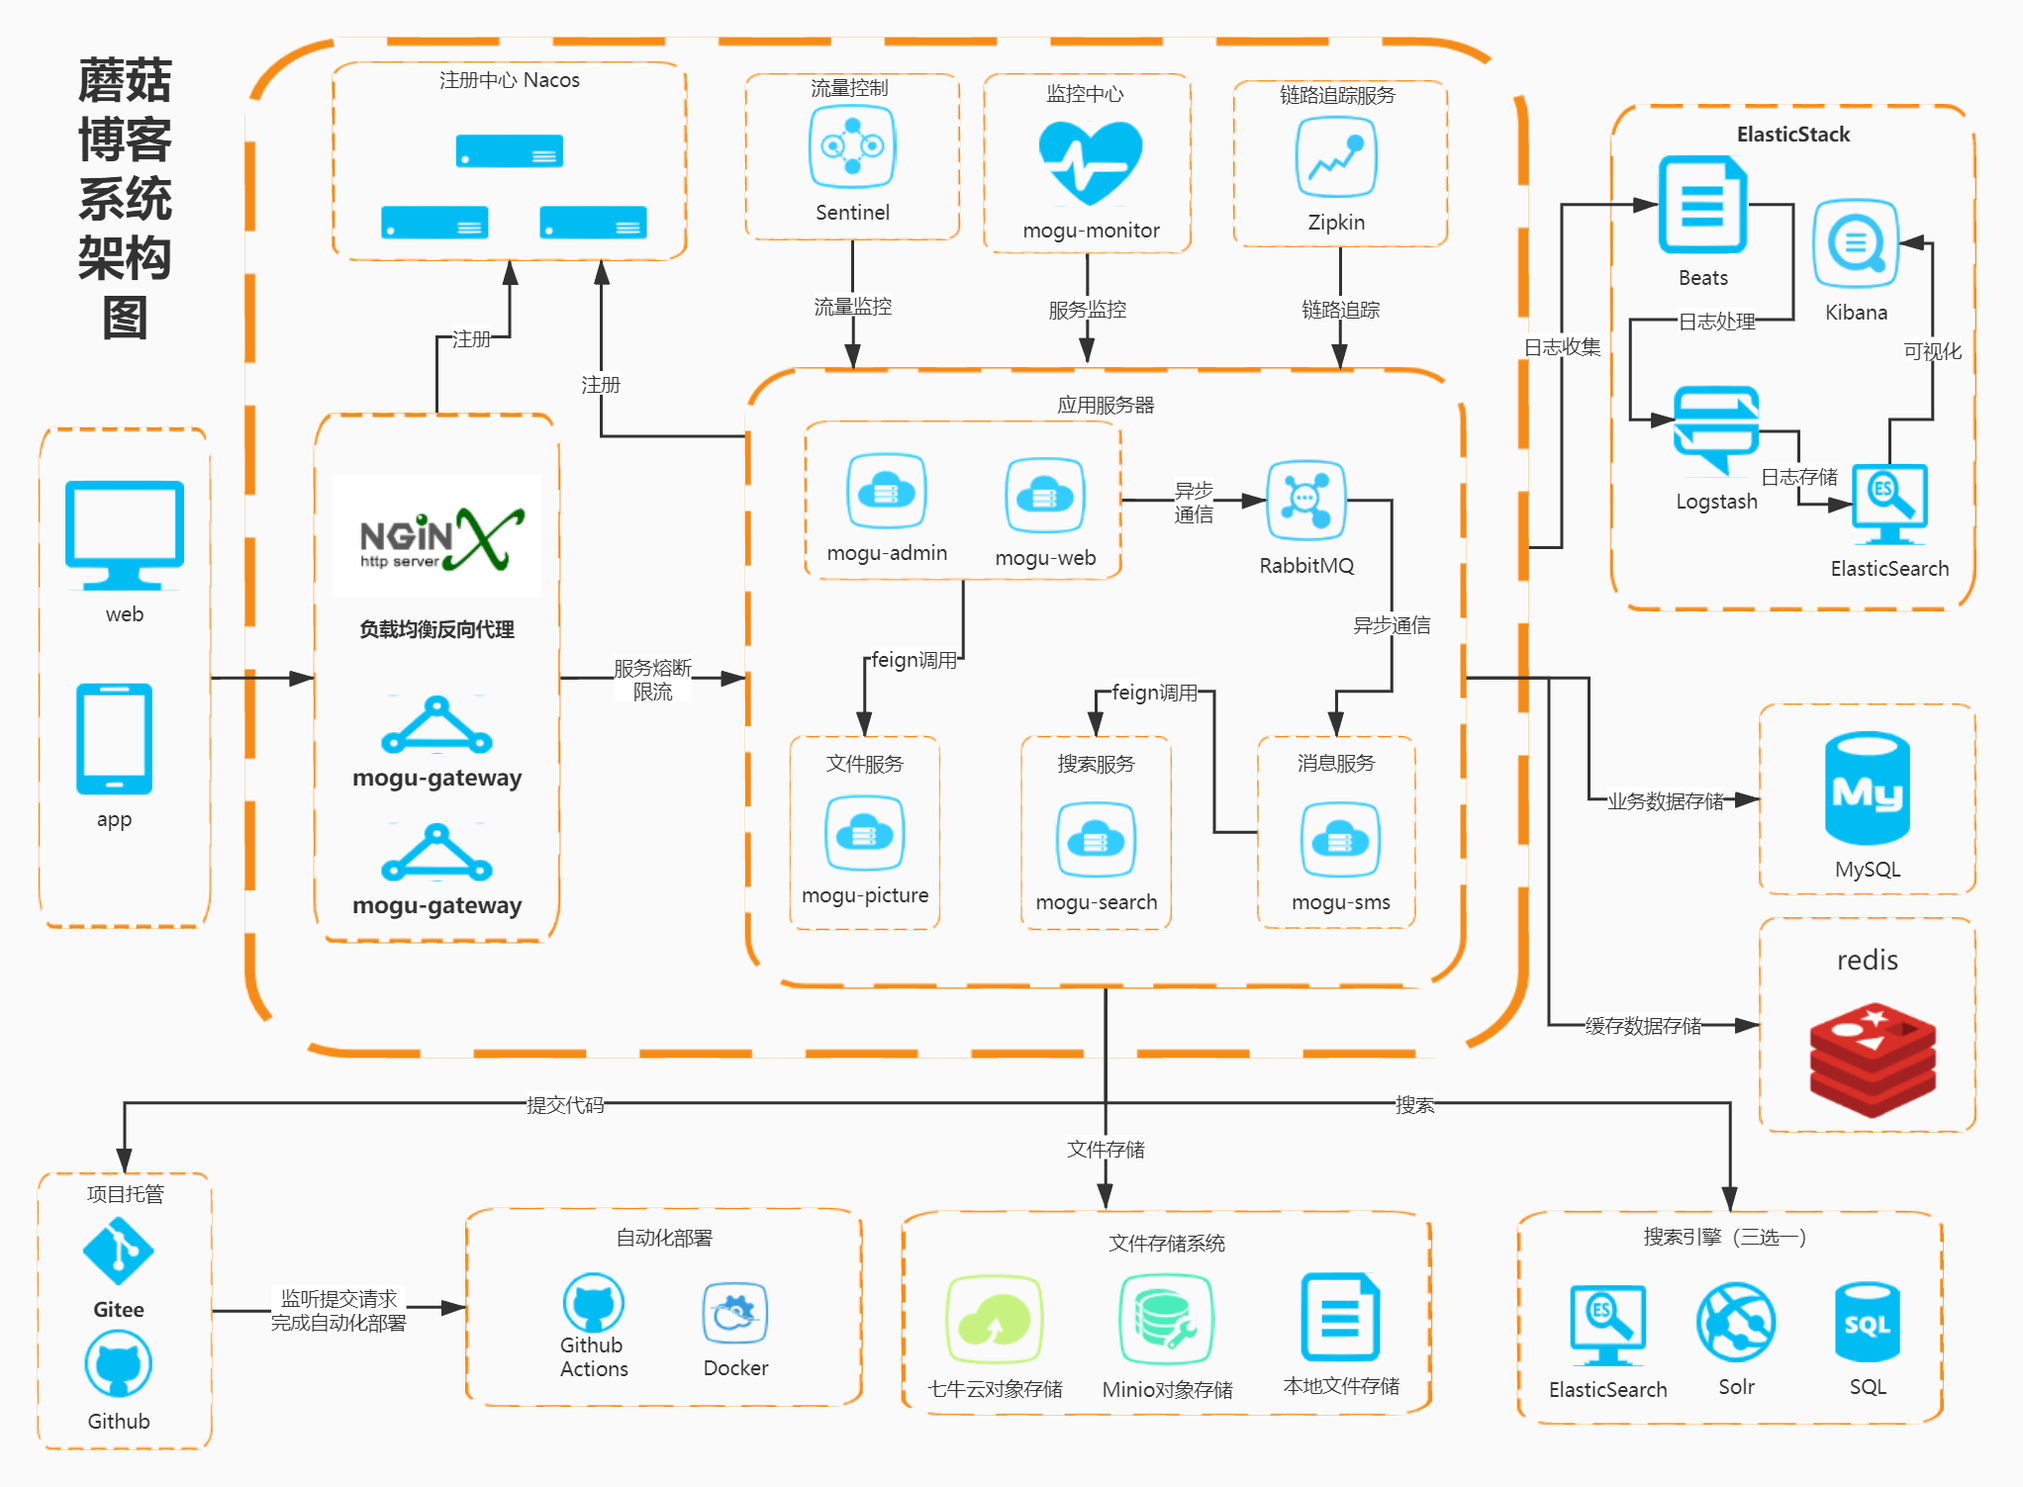
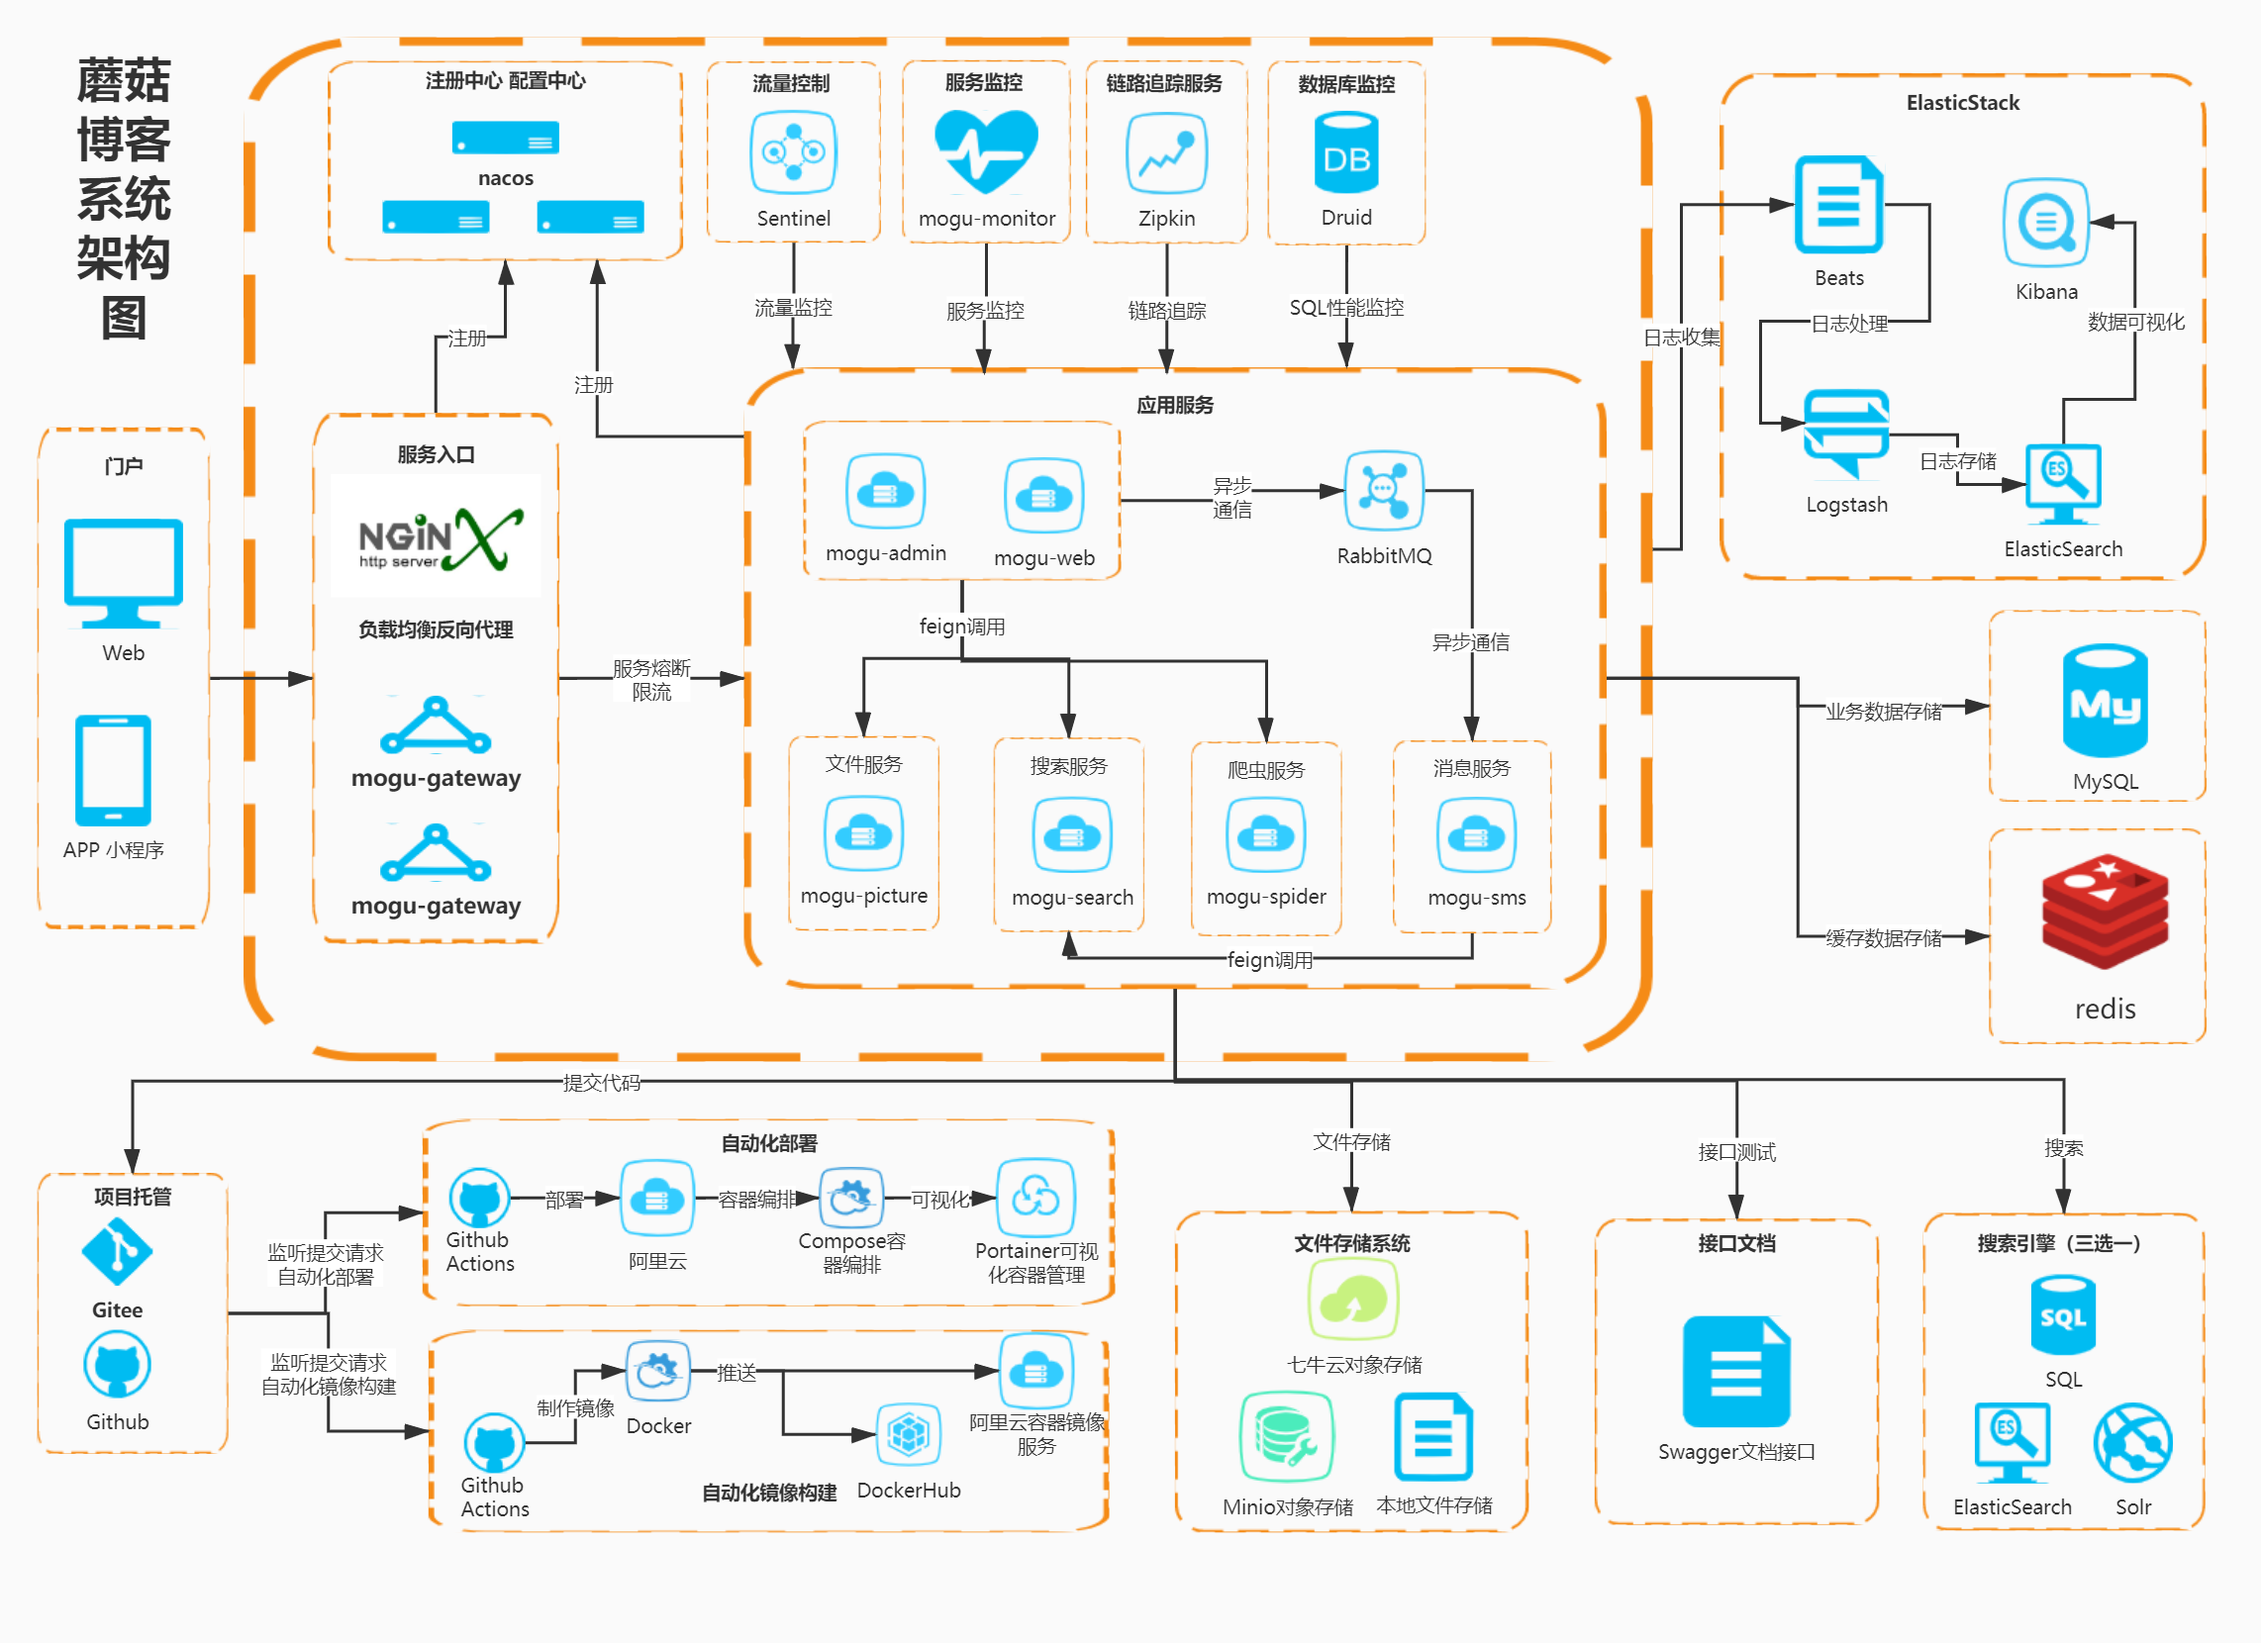
docs: 更新README

Changed region(s): [[0.0, 0.0, 0.9863, 0.9794], [0.9555, 0.0612, 0.9863, 0.0918]]

diff --git a/README.md b/README.md
@@ -19,7 +19,7 @@
 <img src="https://gitee.com/moxi159753/mogu_blog_v2/badge/star.svg?theme=dark" ></img>
 <img src="https://gitee.com/moxi159753/mogu_blog_v2/badge/fork.svg?theme=dark" ></img>
 </a></p>
-[项目介绍](#项目介绍) | [站点演示](#站点演示) | [项目特点](#项目特点) | [技术架构](#技术选型) | [项目目录](#项目目录) | [项目文档](#项目文档)  | [快速开始](#快速开始) | [未来计划](#未来计划) | [项目截图](#移动端截图)
+[项目介绍](#项目介绍) | [站点演示](#站点演示) | [项目特点](#项目特点) | [技术架构](#技术选型) | [项目目录](#项目目录) | [项目文档](#项目文档)  | [快速开始](#快速开始) | [未来计划](#未来计划) | [项目截图](#移动端截图) | [学习笔记](https://gitee.com/moxi159753/LearningNotes)
 
 ##  前言
 
@@ -200,6 +200,8 @@
 | Flexmark-java  |     Markdown转换Html      |            https://github.com/vsch/flexmark-java             |
 |   Ip2region    |     离线IP地址定位库      |          https://github.com/lionsoul2014/ip2region           |
 |     Minio      |     本地对象存储服务      |                       https://min.io/                        |
+| Docker Compose |      Docker容器编排       |               https://docs.docker.com/compose/               |
+|   Portainer    |     Docker可视化管理      |            https://github.com/portainer/portainer            |
 
 ### 前端技术
 
@@ -236,7 +238,7 @@
 
 ### DockerCompose一键部署蘑菇博客(Nacos版)
 
-参考 [DockerCompose一键部署蘑菇博客(Nacos版)](http://www.moguit.cn/#/info?blogOid=565) ，在Linux服务器中，通过执行脚本，一键完成蘑菇博客项目的部署，【推荐小伙伴使用此方式~】。
+参考 [DockerCompose一键部署蘑菇博客(Nacos版)](http://www.moguit.cn/#/info?blogOid=565) ，在Linux服务器中，通过执行脚本，一键完成蘑菇博客项目的部署【推荐小伙伴使用此方式~】
 
 ### Docker搭建蘑菇博客（Eureka分支）
 
@@ -366,8 +368,10 @@
 - [x] 使用Sentinel做服务限流和熔断
 - [x] 增加蘑菇博客小程序项目 uniapp_mogu_web，基于[ColorUI](https://github.com/weilanwl/ColorUI) 和 [Uniapp](https://uniapp.dcloud.io/)
 - [x] 富文本编辑器和Markdown编辑器任意切换
-- [x] 使用ELK搭建蘑菇博客日志收集功能
+- [x] 使用ELK搭建[蘑菇博客日志收集功能](http://www.moguit.cn/#/info?blogUid=fd9ab58588d93ef792ec72a359a09f6c)
 - [x] 使用Minio [搭建对象存储服务](http://www.moguit.cn/#/info?blogUid=a1058b2d030310e2c5d7b0584e514f1f)
+- [x] 使用DockerCompose完成 [博客一键部署](http://www.moguit.cn/#/info?blogOid=565)
+- [x] 使用Portainer对Docker镜像可视化管理
 - [ ] 增加定时任务模块
 - [ ] 增加代码生成器
 - [ ] 完善网盘管理
